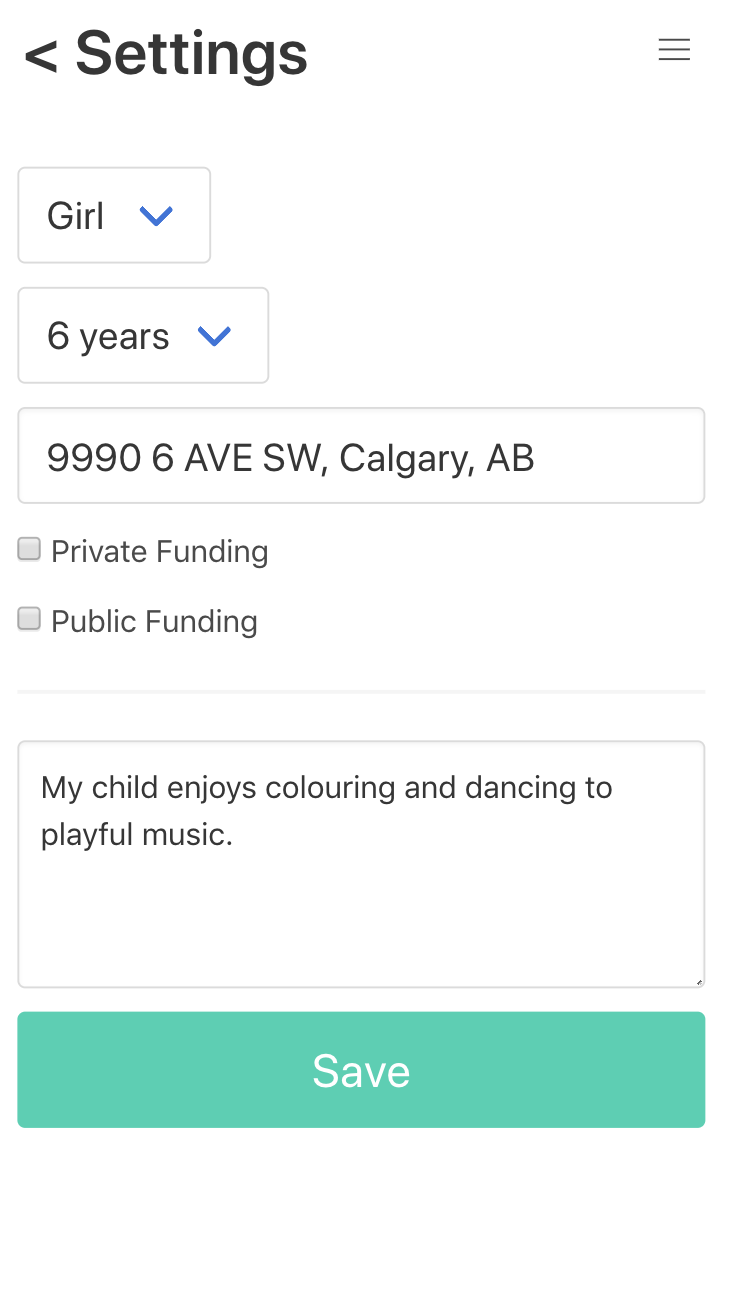
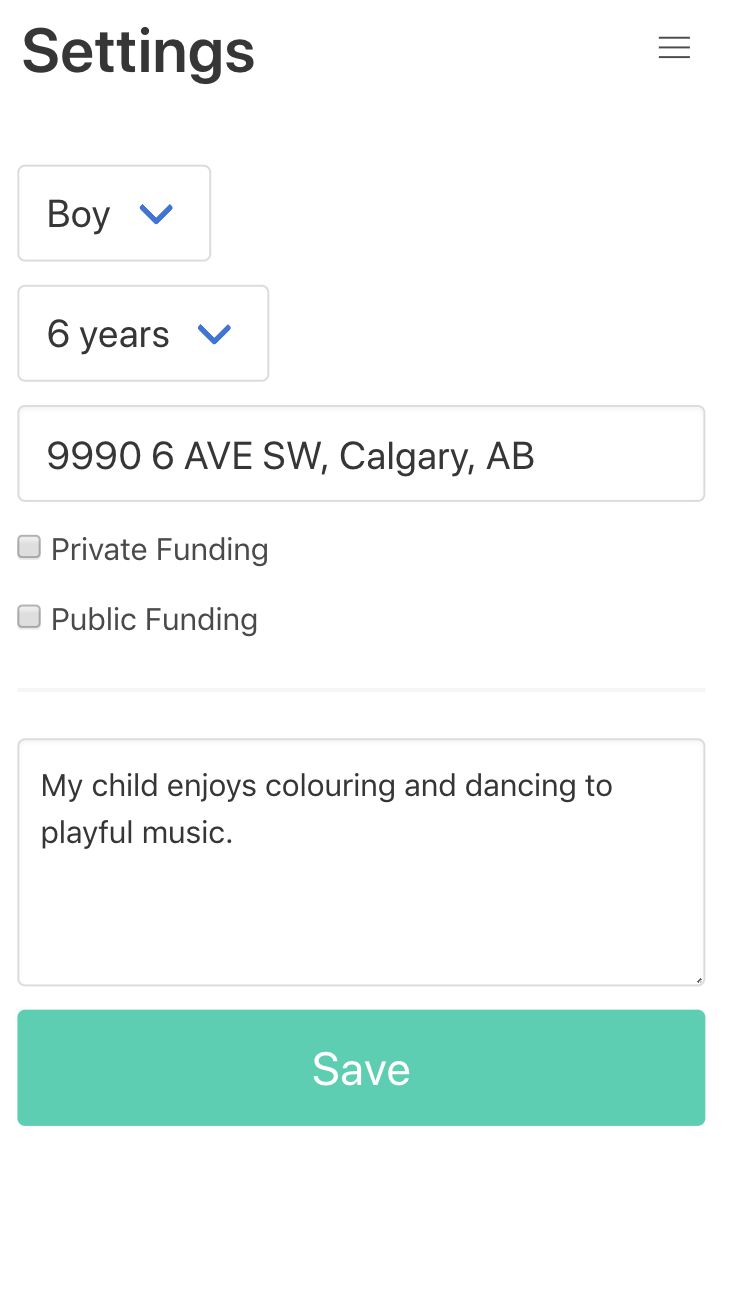
removed the copy and touched up the images

diff --git a/settings.html b/settings.html
@@ -14,7 +14,7 @@
           <nav class="navbar" role="navigation" aria-label="main navigation">
             <div class="navbar-brand">
               <a class="navbar-item" href="">
-                <h1 class=title>&lt; Settings</h1>
+                <h1 class=title>Settings</h1>
               </a>
               <a role="button" class="navbar-burger" aria-label="menu" aria-expanded="false">
                 <span aria-hidden="true"></span>
@@ -32,8 +32,8 @@
               <div class="control">
                 <div class="select is-medium">
                   <select class="is-inline">
-                    <option value="option">Girl</option>
                     <option value="option">Boy</option>
+                    <option value="option">Girl</option>
                   </select>
                 </div>
               </div>
@@ -56,14 +56,14 @@
             <div class="field">
               <div class="control">
                 <label class=checkbox>
-                  <input type="checkbox" class=checkbox /> Private Funding 
+                  <input type="checkbox" class=checkbox /> Private Funding
                 </label>
               </div>
             </div>
             <div class="field">
               <div class="control">
                 <label class=checkbox>
-                  <input type="checkbox" class=checkbox /> Public Funding 
+                  <input type="checkbox" class=checkbox /> Public Funding
                 </label>
               </div>
             </div>

diff --git a/notes.html b/notes.html
@@ -8,12 +8,15 @@
     <link rel="stylesheet" href="https://cdn.jsdelivr.net/npm/bulma@0.8.0/css/bulma.min.css" type="text/css" media="screen">
   </head>
   <body>
+    <div class="container">
+
       <div class="columns">
+
         <div class="column">
           <nav class="navbar" role="navigation" aria-label="main navigation">
             <div class="navbar-brand">
               <a class="navbar-item" href="">
-                <h1 class=title>&lt; Session Notes</h1>
+                <h1 class=title>Session Notes</h1>
               </a>
               <a role="button" class="navbar-burger" aria-label="menu" aria-expanded="false">
                 <span aria-hidden="true"></span>
@@ -24,6 +27,9 @@
           </nav>
         </div>
       </div>
+    </div>
+
+    <div class="container">
       <div class="columns">
 
         <div class="column">
@@ -55,4 +61,5 @@
       <button class="button is-large is-fullwidth is-primary">Submit</button>
     </div>
   </body>
+
 </html>

diff --git a/book.html b/book.html
@@ -14,7 +14,7 @@
           <nav class="navbar" role="navigation" aria-label="main navigation">
             <div class="navbar-brand">
               <a class="navbar-item" href="">
-                <h1 class=title>EasyFind.care</h1>
+                <h1 class=title>Book</h1>
               </a>
               <a role="button" class="navbar-burger" aria-label="menu" aria-expanded="false">
                 <span aria-hidden="true"></span>
@@ -76,7 +76,7 @@
             <hr>
             <div class="field">
               <div class="control">
-                <textarea class="textarea">I would like someone to come to my home. My child likes colouring and dancing.</textarea>
+                <textarea class="textarea">I would like you to come to my home and work with my child on sensory regulation.</textarea>
               </div>
             </div>
             <button class="button is-large is-fullwidth is-primary">Confirm</button>

diff --git a/index.html b/index.html
@@ -16,19 +16,7 @@
     <link rel="stylesheet" href="https://unpkg.com/flickity@2/dist/flickity.min.css">
   </head>
   <body>
-    <div class="container">
-
-      <div class="columns">
-        <div class="column content" style='text-align: center;'>
-          <div class="has-text-info has-large-font" style="max-width: 400px; margin: 0 auto; font-size: 1.2em">
-            We spent hours
-            but found it hard to match reviewed
-            professionals to work with our child on our schedule and budget.
-            Do you want to use 👇 for your kid?
-          </div>
-        </div>
-      </div>
-    </div>
+    <h1 class="title" style="text-align: center">EasyFind.Care</h1>
 
     <div class="container is-hidden-desktop">
       <div class="columns">
@@ -57,4 +45,5 @@
     </div>
 
   </body>
+
 </html>

diff --git a/confirm.html b/confirm.html
@@ -13,7 +13,7 @@
           <nav class="navbar" role="navigation" aria-label="main navigation">
             <div class="navbar-brand">
               <a class="navbar-item" href="">
-                <h1 class=title>&lt; Confirmation</h1>
+                <h1 class="title" style="text-align: center">Confirm</h1>
               </a>
               <a role="button" class="navbar-burger" aria-label="menu" aria-expanded="false">
                 <span aria-hidden="true"></span>
